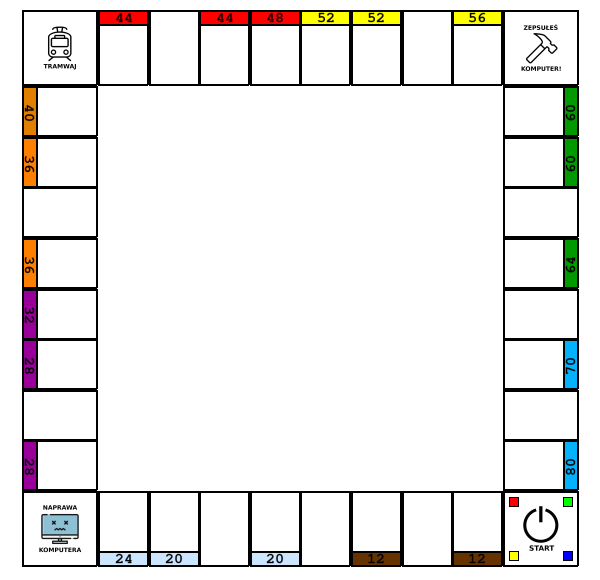
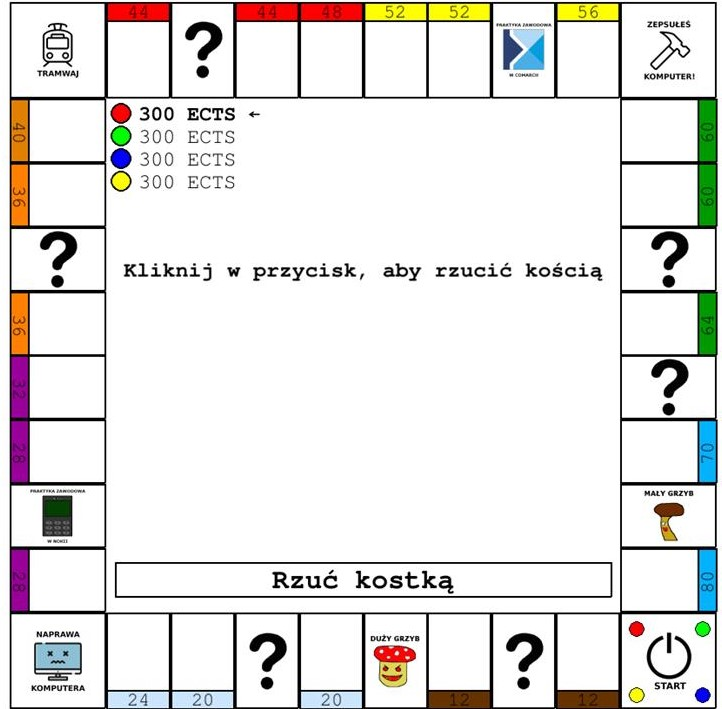
man: Wprowadzono zmiany do instrukcji.

Changed region(s): [[0.0, 0.0, 1.0, 1.0]]

diff --git a/man/instrukcja2.tex b/man/instrukcja2.tex
@@ -28,54 +28,72 @@
 \includegraphics[scale=0.6]{board.png}
 
 \noindent \textbf{2. Cel gry}\\
-\noindent Celem jest zapisanie się i napisanie egzaminów w czterech zakładach lub doprowadzenie pozostałych graczy do utraty wszystkich punktów.
+\noindent Celem jest zapisanie się i napisanie egzaminów z czterech przedmiotów lub doprowadzenie pozostałych graczy do utraty wszystkich punktów.
 \vspace{10pt}
 
+\noindent \textbf{3. Oznaczenia graczy}\\
+\indent \includegraphics[scale=0.5]{ozn_graczy.png}
+
 %\paragraph*{Rozgrywka}
-\noindent \textbf{3. Rozgrywka}\\
+\noindent \textbf{4. Rozgrywka}\\
 \noindent Wszyscy gracze rozpoczynają rozgrywkę na polu 'start'. Pionki graczy reprezentowane są przez kolorowe kółka. Tura gracza składa się z następujących akcji:\\
 - rzut dwiema kostkami,\\
+\indent \includegraphics [scale=0.4]{kostki.png}\\
 - przesunięcie swojego pionka o liczbę pól równą sumie wyrzuconych oczek w kierunku zgodnym z ruchem wskazówek zegara,\\
 - wykonanie instrukcji zgodnie z opisem pola, na który został przesunięty pionek,\\
 - zakończenie tury.\\
-W przypadku wyrzucenia dubletu (czyli takiej samej ilości oczek na obydwu kostkach), gracz przesuwa pionek o sumę oczek na kostkach i rzuca ponownie kośćmi. Jeśli trzy razy pod rząd wypadnie graczowi dublet, jego pionek jest przesuwany na pole 'naprawa komputera' (patrz: Plansza i pola). 
+W przypadku wyrzucenia dubletu:\\
+\indent \includegraphics[scale=0.4]{dublet.png}\\
+(czyli takiej samej ilości oczek na obydwu kostkach), gracz przesuwa pionek o sumę oczek na kostkach i rzuca ponownie kośćmi. Jeśli trzy razy pod rząd wypadnie graczowi dublet, jego pionek jest przesuwany na pole 'naprawa komputera' (patrz: Plansza i pola). 
 \vspace{10pt}
 
 %\paragraph*{Waluta}
-\noindent \textbf{4. Waluta}\\
-\noindent Każdy gracz otrzymuje na starcie 300 punktów ECTS. Po każdorazowym przejściu przez pole 'start' gracz otrzymuje 50 ECTS.
+\noindent \textbf{5. Waluta}\\
+\noindent Każdy gracz otrzymuje na starcie 300 punktów ECTS. Po każdorazowym przejściu lub stanięciu na polu 'start' gracz otrzymuje 30 ECTS.
 \vspace{10pt}
 
 %\paragraph*{Plansza}
-\noindent \textbf{5. Plansza i pola}\\
+\noindent \textbf{6. Plansza i pola}\\
 Plansza składa się z 36 pól. Wyróżniamy wśród nich:\\
 \noindent \textbf{a) start} - początek rozgrywki.\\ 
-\indent\includegraphics[scale=0.8]{start.png}\\
+\indent\includegraphics[scale=0.6]{start.png}\\
+\indent Po każdym przejściu przez to pole, dostajemy dodatkowe 30 ECTS.\\
 
-\indent Po każdym przejściu przez to pole, dostajemy dodatkowe 50 ECTS.\\
 \noindent \textbf{b) zakłady} - jest ich 8.\\
-\indent Każdy zakład składa się z dwóch lub trzech pól przedmiotów, oznaczonych tym samym kolorem.\\
-\noindent \textbf{c) pola przedmiotów} - są 22 takie pola, oznaczone kolorowym paskiem wraz z ceną nabycia.\\ \indent Każde takie pole reprezentuje jeden z wykładanych w instytucie przedmiotów. Można zapisać się na niego poprzez oddanie punktów ECTS w ilości przypisanej do danego pola (oczywiście jeśli gracz ma na to środki). Zapisanie gracza na dany przedmiot jest oznaczane kwadratem w kolorze pionka gracza. Aby zaliczyć dany przedmiot, trzeba napisać z niego odpowiednio kartkówkę, kolokwium i egzamin - każda taka operacja kosztuje pewną przypisaną ilość ECTS. Prace pisemne można pisać jedynie na przedmiocie, na który gracz jest zapisany. Przedmiot uznaje się za zaliczony, jeśli gracz napisał z niego egzamin. Uwaga - za jednym razem można wykonać tylko jedną z tych czynności. Jeśli gracz stanie na przedmiocie, na który zapisał się już ktoś inny, oddaje tej osobie ilość ECTS przypisaną do danego pola. Można również zastąpić aktualnego posiadacza pola - kosztuje to tyle, ile wynosi aktualna wartość pola, powiększona o 100\%. Uwaga - nowy gracza zapisany na przedmiot zaczyna go od początku - musi sam od początku napisać wszystkie prace pisemne.\\ 
+\noindent Każdy zakład składa się z dwóch lub trzech pól przedmiotów, oznaczonych tym samym kolorem.\\
+
+\noindent \textbf{c) pola przedmiotów} - są 22 takie pola, oznaczone kolorowym paskiem wraz z ceną nabycia.\\
+\indent \includegraphics[scale=0.8]{pola.png}\\
+\noindent Każde takie pole reprezentuje jeden z wykładanych w instytucie przedmiotów. Można zapisać się na niego poprzez oddanie punktów ECTS w ilości przypisanej do danego pola (oczywiście jeśli gracz ma na to środki). Zapisanie gracza na dany przedmiot jest oznaczane kwadratem w kolorze pionka gracza. Aby zaliczyć dany przedmiot, trzeba napisać z niego odpowiednio kartkówkę, kolokwium i egzamin - każda taka operacja kosztuje pewną przypisaną ilość ECTS. Prace pisemne można pisać jedynie na przedmiocie, na który gracz jest zapisany. Przedmiot uznaje się za zaliczony, jeśli gracz napisał z niego egzamin. Uwaga - za jednym razem można wykonać tylko jedną z tych czynności. Jeśli gracz stanie na przedmiocie, na który zapisał się już ktoś inny, oddaje tej osobie ilość ECTS przypisaną do danego pola. Można również zastąpić aktualnego posiadacza pola - kosztuje to tyle, ile wynosi aktualna wartość pola, powiększona o 100\%. Uwaga - nowy gracz zapisany na przedmiot zaczyna go od początku - musi sam od początku napisać wszystkie prace pisemne.\\ 
+
 \noindent \textbf{d) mały grzyb} - jest jedno takie pole.\\
-\indent Stanięcie na nim skutkuje utratą 15 punktów ECTS.\\
+\indent \includegraphics[scale=0.5]{s_mush.png}\\
+\noindent Stanięcie na nim skutkuje utratą 15 punktów ECTS.\\
+
 \noindent \textbf{e) duży grzyb} - jest jedno takie pole.\\
-\indent Stanięcie na nim skutkuje utratą 30 punktów ECTS.\\
-\noindent \textbf{f) szansa} - jest 6 takich pól, oznaczonych [...?]. \\
-\indent Po stanięcu na nim losuje się karta, która wskazuje, jaka akcja się wykona. Nie ma możliwości uniknięcia wylosowanej czynności.\\
+\indent \includegraphics[scale=0.5]{l_mush.png}\\
+\noindent Stanięcie na nim skutkuje utratą 30 punktów ECTS.\\
+
+\noindent \textbf{f) szansa} - jest 6 takich pól, oznaczonych znakiem zapytania.\\
+\indent \includegraphics[scale=0.7]{chance.png}\\
+\noindent Po stanięcu na nim losuje się karta, która wskazuje, jaka akcja się wykona. Nie ma możliwości uniknięcia wylosowanej czynności.\\
+
 \noindent \textbf{g) tramwaj} - pole umożliwiające przejście do wybranego przez siebie innego pola.\\
 \indent\includegraphics[scale=0.8]{tram.png}\\
-\indent Gracz może przejść tylko na pole, które posiada lub które nie zostało jeszcze zakupione. \\
-\noindent \textbf{h) zepsułeś komputer} - pole, które automatycznie przenosi gracza na pole naprawa komputera.\\
+\noindent Gracz może przejść tylko na pole, które posiada lub które nie zostało jeszcze zakupione lub na pole specjalne z wyjątkiem pola tramwaju i zajętych pól praktyk. \\
+
+\noindent \textbf{h) zepsułeś komputer} - pole, które automatycznie przenosi gracza na pole naprawa komputera, gdzie musi pozostać 3 tury lub opuścić je w inny sposób.\\
 \indent\includegraphics[scale=0.8]{jail.png}\\
-\noindent \textbf{i) naprawa komputera} - jeśli gracz stanie na tym polu, musi pozostać na nim przez 3 tury, zanim będzie mógł je opuścić. Innym sposobem na opuszczenie tego pola jest oddanie 50 ECTS lub wylosowanie na dwóch kostkach dubletu.\\
+\noindent \textbf{i) naprawa komputera} - jeśli gracz stanie na tym polu, musi pozostać na nim przez 2 tury, zanim będzie mógł je opuścić. Innym sposobem na opuszczenie tego pola jest oddanie 30 ECTS lub wylosowanie na dwóch kostkach dubletu.\\
+
 \indent\includegraphics[scale=0.8]{injail.png}\\
-\noindent \textbf{j) praktyki} - są 3 takie pola.\\
-\indent Aby się na nie zapisać, trzeba oddać przypisaną ilość punktów ECTS. Praktyk nie można przejąć od kogoś - kto pierwszy, ten lepszy.
+\noindent \textbf{j) praktyki} - są 2 takie pola.\\
+\noindent Aby się na nie zapisać, trzeba oddać przypisaną ilość punktów ECTS. Wykup praktyk jest obowiązkowy i kosztuje 45 ECTS. Praktyk nie można przejąć od kogoś - kto pierwszy, ten lepszy. Gracz, który stanie na polu praktyk należącym do innego gracza musi oddać posiadaczowi pola 20 ECTS.
 \vspace{10pt}
 
-%\paragraph*{6.Co, jeśli staniemy na polu i nie stać na na opłacenie akcji związanej z nim?}
-\noindent \textbf{6. Co, jeśli gracz stanie na polu i nie stać go na opłacenie akcji z nim związanej?}\\
-\noindent Gracz bankrutuje i kończy grę.
+%\paragraph*{7.Co, jeśli staniemy na polu i nie stać na na opłacenie akcji związanej z nim?}
+\noindent \textbf{7. Co, jeśli gracz stanie na polu i nie stać go na opłacenie akcji z nim związanej?}\\
+\noindent Gracz bankrutuje, oddaje wszystkie swoje pola do puli dostępnych pól i kończy grę.
 \vspace{10pt}
 
 \noindent Dobór nazw przedmiotów i ich pozycji na planszy jest losowy, niekierowany naszymi preferencjami.
